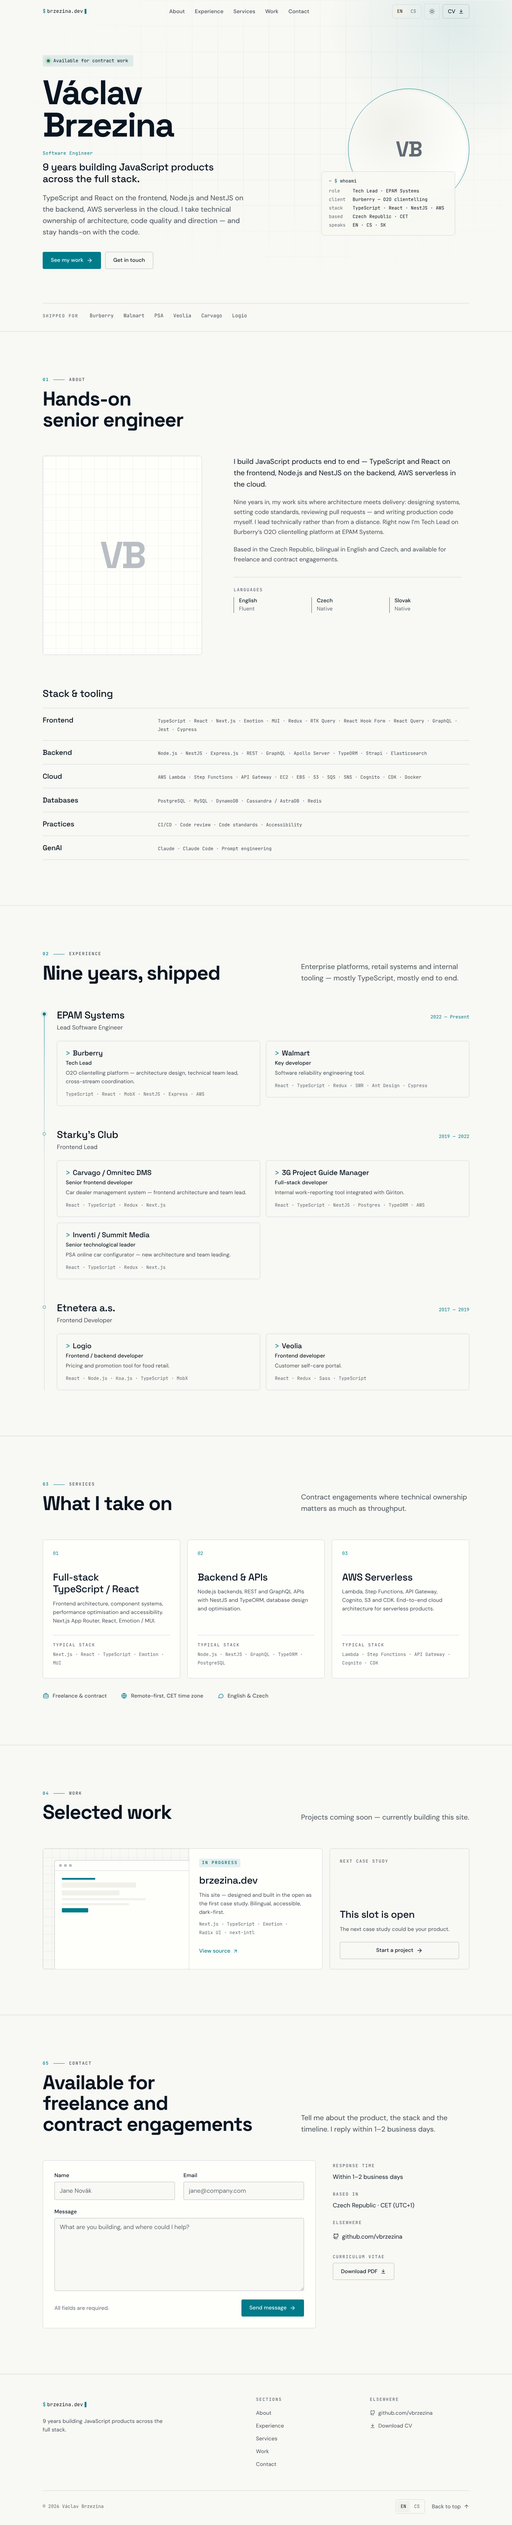
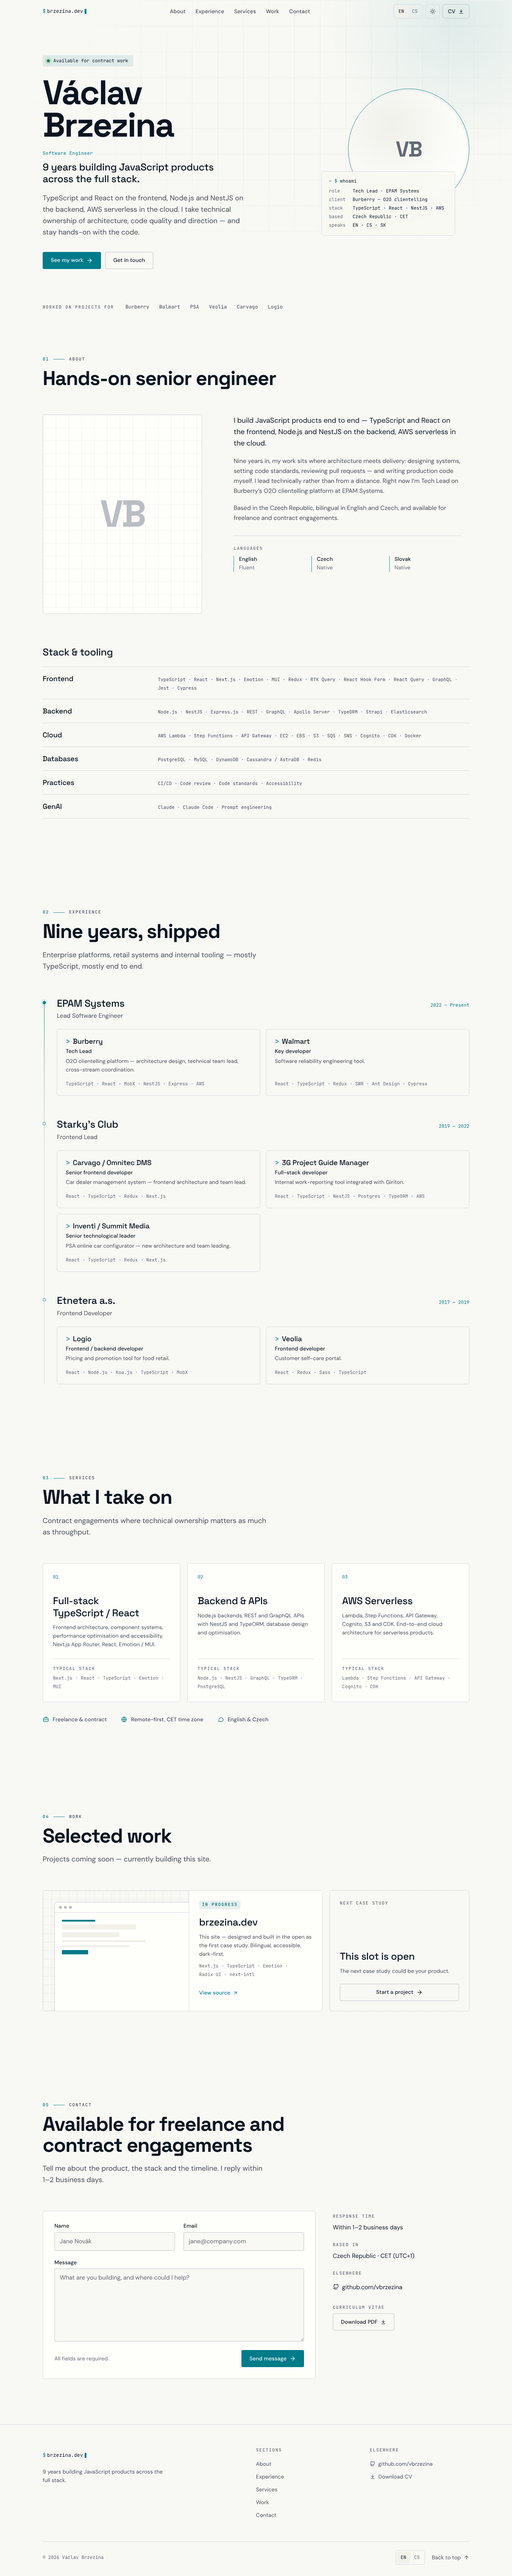
fix(ui): owner review — section rhythm, nav marks, theme persistence
- Theme no longer resets when switching locale: <html> no longer carries
  a server-rendered data-theme; the provider re-applies the stored theme
  on mount (client-side navigation re-rendered the root layout)
- Remove hairlines between sections and above the hero client strip
- "Shipped for" → "Worked on projects for" (EN/CS)
- Section lead sits under the heading in one reading column
- Nav active state: 1px accent rule (matches the eyebrow) instead of a dot
- Nav controls share a 40px height and 6px radius on desktop
- Experience cards equal height per row, stack line pinned to the bottom
- Logo cursor is static (no endless blink)
- Spec, ADR-007, CLAUDE.md and case-study log updated; screenshots refreshed

Claude-Session: https://claude.ai/code/session_013mW6ZWY6digWVBj5YtAxDN

diff --git a/src/app/ThemeContext.tsx b/src/app/ThemeContext.tsx
@@ -1,6 +1,6 @@
 'use client';
 
-import { createContext, useCallback, useContext, useEffect, useRef, useState } from 'react';
+import { createContext, useCallback, useContext, useLayoutEffect, useRef, useState } from 'react';
 import { THEME_STORAGE_KEY } from '@/app/themeScript';
 
 export type ColorScheme = 'dark' | 'light';
@@ -20,8 +20,22 @@ export function ColorSchemeProvider({ children }: { children: React.ReactNode })
   const [scheme, setScheme] = useState<ColorScheme | null>(null);
   const fadeTimer = useRef<number | undefined>(undefined);
 
-  useEffect(() => {
-    setScheme(document.documentElement.dataset.theme === 'light' ? 'light' : 'dark');
+  // React owns <html> and resets its attributes when the root layout re-renders
+  // (e.g. switching locale is a client-side navigation), so re-apply the stored
+  // preference on every mount rather than trusting the current attribute.
+  // Layout effect: runs before paint, so the reset is never visible.
+  useLayoutEffect(() => {
+    const root = document.documentElement;
+    let stored: string | null = null;
+    try {
+      stored = localStorage.getItem(THEME_STORAGE_KEY);
+    } catch {
+      // Storage unavailable — fall back to whatever the page currently shows.
+    }
+    const current: ColorScheme =
+      stored === 'light' || stored === 'dark' ? stored : root.dataset.theme === 'light' ? 'light' : 'dark';
+    root.dataset.theme = current;
+    setScheme(current);
   }, []);
 
   const toggleTheme = useCallback(() => {

diff --git a/src/components/sections/Experience.tsx b/src/components/sections/Experience.tsx
@@ -101,10 +101,12 @@ const Projects = styled.ul`
   }
 `
 
+/* Fills its grid cell, so cards in the same row share a height; the stack line pins to the bottom. */
 const Project = styled.div`
   display: flex;
   flex-direction: column;
   gap: 0.375rem;
+  height: 100%;
   padding: 1.25rem 1.5rem 1.375rem;
   border: 1px solid ${({ theme }) => theme.colors.border};
   border-radius: ${({ theme }) => theme.radius.md};
@@ -135,7 +137,11 @@ const ProjectRole = styled.p`
 const ProjectDescription = styled.p`
   ${type.bodyS}
   color: ${({ theme }) => theme.colors.fgSecondary};
-  margin-bottom: 0.5rem;
+`
+
+const ProjectStack = styled.div`
+  margin-top: auto;
+  padding-top: 0.75rem;
 `
 
 // ─── Component ────────────────────────────────────────────────────────────────
@@ -182,7 +188,9 @@ export function Experience() {
                       </Client>
                       <ProjectRole>{t(`projects.${project.id}.role`)}</ProjectRole>
                       <ProjectDescription>{t(`projects.${project.id}.description`)}</ProjectDescription>
-                      <StackList items={project.stack} label={t('stackLabel')} />
+                      <ProjectStack>
+                        <StackList items={project.stack} label={t('stackLabel')} />
+                      </ProjectStack>
                     </Project>
                   </Reveal>
                 ))}

diff --git a/src/components/ui/SectionHeader.tsx b/src/components/ui/SectionHeader.tsx
@@ -9,19 +9,11 @@ interface SectionHeaderProps {
   lead?: string
 }
 
-const Root = styled.header<{ $split: boolean }>`
-  display: grid;
+/* One reading column: eyebrow → heading → lead, all left-aligned. */
+const Root = styled.header`
+  display: flex;
+  flex-direction: column;
   gap: ${({ theme }) => theme.space[5]};
-
-  ${({ theme }) => theme.mq.lg} {
-    ${({ $split }) =>
-      $split &&
-      `
-        grid-template-columns: 7fr 5fr;
-        column-gap: 4rem;
-        align-items: end;
-      `}
-  }
 `
 
 const Eyebrow = styled.p`
@@ -47,18 +39,18 @@ const Rule = styled.span`
 const Title = styled.h2`
   ${type.displayL}
   color: ${({ theme }) => theme.colors.fg};
-  max-width: 18ch;
+  max-width: 22ch;
 `
 
 const Lead = styled.p`
   ${type.bodyL}
   color: ${({ theme }) => theme.colors.fgSecondary};
-  max-width: 34rem;
+  max-width: 40rem;
 `
 
 export function SectionHeader({ index, label, title, titleId, lead }: SectionHeaderProps) {
   return (
-    <Root $split={Boolean(lead)}>
+    <Root>
       <div>
         <Eyebrow>
           <Index>{index}</Index>

diff --git a/src/components/nav/SiteNav.tsx b/src/components/nav/SiteNav.tsx
@@ -89,18 +89,16 @@ const NavLink = styled(NavigationMenu.Link)`
   color: ${({ theme }) => theme.colors.fgSecondary};
   transition: color ${({ theme }) => theme.motion.fast} ease;
 
-  /* Active indicator: a small accent dot, scaled in from the link's centre. */
+  /* Active indicator: a 1px accent rule under the label — the same mark as the eyebrow's rule. */
   &::after {
     content: '';
     position: absolute;
-    left: 50%;
-    bottom: 0.3rem;
-    width: 4px;
-    height: 4px;
-    margin-left: -2px;
-    border-radius: 50%;
+    left: 0.75rem;
+    right: 0.75rem;
+    bottom: 0.375rem;
+    height: 1px;
     background: ${({ theme }) => theme.colors.accent};
-    transform: scale(0);
+    transform: scaleX(0);
     transition: transform 200ms ${({ theme }) => theme.motion.ease};
   }
 
@@ -110,7 +108,13 @@ const NavLink = styled(NavigationMenu.Link)`
   }
 
   &[data-active]::after {
-    transform: scale(1);
+    transform: scaleX(1);
+  }
+
+  ${({ theme }) => theme.mq.reducedMotion} {
+    &::after {
+      transition: none;
+    }
   }
 `;
 

diff --git a/src/components/ui/Logo.tsx b/src/components/ui/Logo.tsx
@@ -1,11 +1,5 @@
 import styled from '@emotion/styled'
-import { keyframes } from '@emotion/react'
 import { type } from '@/styles/typography'
-
-const blink = keyframes`
-  0%, 49% { opacity: 1; }
-  50%, 100% { opacity: 0; }
-`
 
 const Root = styled.a`
   ${type.monoBody}
@@ -28,11 +22,8 @@ const Cursor = styled.span`
   height: 1.05em;
   margin-left: 0.1ch;
   background: ${({ theme }) => theme.colors.accent};
-  animation: ${blink} 1s steps(1) infinite;
-
-  ${({ theme }) => theme.mq.reducedMotion} {
-    animation: none;
-  }
+  /* Static on purpose: an endless blink pulls the eye in peripheral vision (and WCAG 2.2.2
+     requires a pause control for blinking content that runs longer than 5s). */
 `
 
 interface LogoProps {

diff --git a/src/components/ui/IconButton.tsx b/src/components/ui/IconButton.tsx
@@ -1,6 +1,6 @@
 import styled from '@emotion/styled'
 
-/** Square 44px icon button (theme toggle, menu open/close). */
+/** Square icon button: 44px touch target on mobile, 40px on desktop to match the other nav controls. */
 export const IconButton = styled.button`
   position: relative;
   display: inline-flex;
@@ -26,6 +26,11 @@ export const IconButton = styled.button`
   /* Feedback on pointer-down, not release. */
   &:active {
     transform: scale(0.94);
+  }
+
+  ${({ theme }) => theme.mq.md} {
+    width: 2.5rem;
+    height: 2.5rem;
   }
 
   ${({ theme }) => theme.mq.reducedMotion} {

diff --git a/src/components/ui/Button.tsx b/src/components/ui/Button.tsx
@@ -29,7 +29,8 @@ const StyledButton = styled('button', {
   padding-inline: ${({ $size, $variant }) =>
     $variant === 'ghost' ? '0.75rem' : $size === 'sm' ? '0.875rem' : '1.375rem'};
   width: ${({ $fullWidth }) => ($fullWidth ? '100%' : 'auto')};
-  border-radius: ${({ theme }) => theme.radius.sm};
+  /* sm buttons sit in the nav next to the 6px-radius icon button and locale switch. */
+  border-radius: ${({ theme, $size }) => ($size === 'sm' ? theme.radius.md : theme.radius.sm)};
   border: 1px solid transparent;
   cursor: pointer;
   white-space: nowrap;

diff --git a/src/components/layout/Section.ts b/src/components/layout/Section.ts
@@ -1,9 +1,8 @@
 import styled from '@emotion/styled';
 
-/** Page section: one canvas, separated by a hairline — never by a background change. */
+/** Page section: one continuous canvas — sections are separated by space and the eyebrow, not by rules. */
 export const Section = styled.section`
   position: relative;
   padding-block: ${({ theme }) => theme.layout.sectionPadding};
-  border-top: 1px solid ${({ theme }) => theme.colors.border};
   scroll-margin-top: 5.5rem;
 `;

diff --git a/src/components/sections/Hero.tsx b/src/components/sections/Hero.tsx
@@ -213,8 +213,6 @@ const Proof = styled.div`
   align-items: baseline;
   gap: 0.75rem 2rem;
   margin-top: clamp(4rem, 3rem + 4vw, 6rem);
-  padding-block: 1.5rem 2rem;
-  border-top: 1px solid ${({ theme }) => theme.colors.border};
 `
 
 const ProofLabel = styled.p`

diff --git a/src/app/[locale]/layout.tsx b/src/app/[locale]/layout.tsx
@@ -44,7 +44,6 @@ export default async function LocaleLayout({
   return (
     <html
       lang={locale}
-      data-theme="dark"
       className={`${spaceGrotesk.variable} ${dmSans.variable} ${jetbrainsMono.variable}`}
       suppressHydrationWarning
     >

diff --git a/docs/design/redesign-2026-10.md b/docs/design/redesign-2026-10.md
@@ -92,7 +92,7 @@ Implemented as Emotion `css` mixins in `src/styles/typography.ts`. Body text mea
 ### 3.3 Space, radius, layout
 
 - **Spacing scale:** 4 · 8 · 12 · 16 · 24 · 32 · 48 · 64 · 96 · 128 px (`theme.space`).
-- **Section rhythm:** `padding-block: clamp(5rem, 3rem + 6vw, 8rem)`; sections are separated by a single hairline, never by a background change.
+- **Section rhythm:** `padding-block: clamp(5rem, 3rem + 6vw, 8rem)`; sections are separated by space and the eyebrow alone — no rules between sections, no background changes. The only full-width rule is the footer's top edge.
 - **Container:** 75rem max, gutter `clamp(1.25rem, 4vw, 2.5rem)`.
 - **Grid:** 12 columns, 1.5rem gap desktop. Breakpoints: `sm 640`, `md 900` (nav collapses below this), `lg 1100`.
 - **Radius:** `4px` for controls (buttons, inputs, pills, segments); `6px` for large surfaces (cards, panels, sheet). Corners stay sharp — the 2px step only makes larger surfaces read a little heavier.
@@ -109,9 +109,9 @@ Implemented as Emotion `css` mixins in `src/styles/typography.ts`. Body text mea
 | Nav material | border + background fade in after 8px of scroll, 200ms | Same |
 | Mobile sheet | enters **from the trigger edge** (top): translateY(−0.75rem)+opacity, 320ms; exits along the same path, 200ms; scrim fades | Opacity only |
 | Theme switch | `background-color`/`color` cross-fade 300ms on the root — no abrupt brightness jump | Instant |
-| Logo cursor | 1s step blink | Static |
+| Logo cursor | Static — no blink (an endless blink distracts in peripheral vision; WCAG 2.2.2 would require a pause control) | — |
 
-Only `transform` and `opacity` are animated for movement. No looping animation besides the cursor (which is stepped, not oscillating). CSS transitions only — ADR-007 stands; nothing on the page is gesture-driven enough to need springs.
+Only `transform` and `opacity` are animated for movement. No looping animation anywhere. CSS transitions only — ADR-007 stands; nothing on the page is gesture-driven enough to need springs.
 
 `prefers-reduced-transparency: reduce` → nav and sheet become solid `--color-canvas`, no blur.
 
@@ -121,15 +121,15 @@ Only `transform` and `opacity` are animated for movement. No looping animation b
 
 | Component | Spec |
 |-----------|------|
-| **Button** | Variants `primary` (accent fill), `secondary` (transparent, `border-strong`, hover → `raised`), `ghost` (no border, `fg-secondary`, hover → `accent-subtle`). Sizes `md` (48px) and `sm` (40px; nav CV). Optional leading/trailing icon. Focus: 2px accent outline, 2px offset. `asChild` for links. One primary button per view. |
-| **SectionHeader** | `NN —— LABEL` eyebrow (number + rule in accent, label in `fg-secondary`) → h2 `displayL`. Optional lead sits in the right 5 columns, bottom-aligned with the heading, from `lg` up (editorial split); stacked below that. |
+| **Button** | Variants `primary` (accent fill), `secondary` (transparent, `border-strong`, hover → `raised`), `ghost` (no border, `fg-secondary`, hover → `accent-subtle`). Sizes `md` (48px, 4px radius) and `sm` (40px, 6px radius — nav CV, matching the icon button and locale switch). Optional leading/trailing icon. Focus: 2px accent outline, 2px offset. `asChild` for links. One primary button per view. |
+| **SectionHeader** | `NN —— LABEL` eyebrow (number + rule in accent, label in `fg-secondary`) → h2 `displayL`. Optional lead directly below the heading (max 40rem). One left-aligned reading column at every width — eyebrow → heading → lead — so the eye never jumps across the page. |
 | **StatusPill** | `accent-subtle` fill, success dot with soft glow, `monoS` label. Static — no pulse. |
 | **StackList** | Mono, dot-separated (`TypeScript · React · NestJS`), wraps naturally, rendered as `<ul role="list">` with CSS separators — the explicit role keeps Safari/VoiceOver announcing it after the `list-style: none` reset (same on every styled list). Replaces boxed tags everywhere. |
-| **Logo** | `$` accent + `brzezina.dev` + 0.5em block cursor. |
+| **Logo** | `$` accent + `brzezina.dev` + 0.5em static block cursor. |
 | **LocaleSwitch** | Segmented control (`EN | CS`) — selected segment on `raised`. Real `<a>` links to the locale route with `aria-current`, `hreflang`. |
 | **ThemeToggle** | 40px icon button, SVG sun/moon, label states the action ("Switch to light theme"). Persists to `localStorage`; inline head script applies the theme before first paint. |
 | **Field** | Label above (never floating), 48px control on `canvas` with `border-strong`; focus → accent border + 3px `accent-subtle` halo; error → error border + message (`aria-invalid`, `aria-describedby`). Validated on blur, then live. |
-| **IconButton** | 44px square, hairline border, `md` radius; hover → `raised`; press → `scale(0.94)` (off under reduced motion). Shared by the theme toggle and the menu open/close buttons. |
+| **IconButton** | 44px square on mobile (touch target), 40px from `md` up so every nav control shares one height; hairline border, `md` radius; hover → `raised`; press → `scale(0.94)` (off under reduced motion). Shared by the theme toggle and the menu open/close buttons. |
 | **Icons** | Inline SVG, 20px, 1.75 stroke, `currentColor` (Lucide geometry): sun, moon, menu, close, arrow-right, arrow-up-right, download, github, check. |
 
 ---
@@ -138,7 +138,7 @@ Only `transform` and `opacity` are animated for movement. No looping animation b
 
 ### Nav (sticky, 64px)
 - **Left:** Logo.
-- **Centre (≥900px):** About · Experience · Services · Work · Contact. Active section → `fg` + 4px accent dot underneath (`aria-current="location"`).
+- **Centre (≥900px):** About · Experience · Services · Work · Contact. Active section → `fg` + a 1px accent rule under the label, scaling in from the centre — the same mark as the eyebrow's rule (`aria-current`).
 - **Right:** LocaleSwitch · ThemeToggle · `CV` secondary `sm` button with download icon.
 - **Material:** transparent at the top of the page; after 8px of scroll it becomes `--color-material` + `backdrop-filter: blur(20px) saturate(180%)` with a hairline bottom edge. The edge exists only when content is actually under the bar.
 - **< 900px:** Logo · ThemeToggle · 44px menu button. Menu = Radix Dialog sheet anchored to the top edge: large `titleL` links with mono counters (`01 About`), LocaleSwitch, CV + "Get in touch" buttons. Focus trap, Escape, scrim click. Dismissing returns focus to the trigger; choosing a section moves focus to that section instead.
@@ -164,7 +164,7 @@ Only `transform` and `opacity` are animated for movement. No looping animation b
   speaks   EN · CS · SK
   ```
 - **Backdrop:** the 72px technical grid, masked with a radial fade so it dissolves before the edges, plus one soft accent glow top-right (decorative, `aria-hidden`).
-- **Proof strip** (bottom of hero, hairline above): `SHIPPED FOR` eyebrow + `Burberry · Walmart · PSA · Veolia · Carvago · Logio` in `monoBody` fg-tertiary. These are real past clients; headhunters scan for exactly this.
+- **Proof strip** (bottom of hero, no rule): `WORKED ON PROJECTS FOR` eyebrow + `Burberry · Walmart · PSA · Veolia · Carvago · Logio` in `monoBody`. Worded as *projects for* because these were clients of EPAM, Starky's Club and Etnetera, not direct engagements — the big names stay, the claim stays accurate.
 
 ### 01 About — "Hands-on senior engineer"
 - 5/7 split. Left: 4:5 portrait placeholder (surface, grid texture, `VB` monogram, `role="img"` with descriptive label). Right: first paragraph in `bodyL` fg (the lede), then two `bodyM` fg-secondary paragraphs, then a languages `<dl>`: **English** Fluent · **Czech** Native · **Slovak** Native.
@@ -173,7 +173,7 @@ Only `transform` and `opacity` are animated for movement. No looping animation b
 ### 02 Experience — "Nine years, shipped"
 - A vertical rail on the left with an accent dot per employer. The dot of the current role has a halo.
 - **Company header:** name in `titleL`, title in `bodyM` fg-secondary; period in `monoS` accent, right-aligned on desktop and above the name on mobile.
-- **Projects:** two-column grid from `lg` up (cuts the section height roughly in half). Each project: `> Client` (`titleM`, accent `>`), role (`bodyS` fg), description (`bodyS` fg-secondary), StackList.
+- **Projects:** two-column grid from `lg` up (cuts the section height roughly in half). Cards in the same row share a height, with the stack line pinned to the bottom, so rows read as clean bands; across rows heights follow content (forcing one global height would pad short cards with empty space). Each project: `> Client` (`titleM`, accent `>`), role (`bodyS` fg), description (`bodyS` fg-secondary), StackList.
 - Content is the real CV: EPAM (Burberry, Walmart), Starky's Club (Carvago/Omnitec DMS, 3G Project Guide Manager, Inventi/Summit Media — PSA), Etnetera (Logio, Veolia).
 
 ### 03 Services — "What I take on"

diff --git a/.scratch/brzezina-dev-portfolio/case-study-log.md b/.scratch/brzezina-dev-portfolio/case-study-log.md
@@ -126,3 +126,19 @@ Running record of decisions, alternatives considered, and wrong turns for the br
 **Wrong turn / lesson:** The redesign also regressed the CV links from `/cv.pdf` (with `download`) to `#` because the spec was written from the nav button, the one place that was already `#`. Review the diff against the base branch, not against your memory of it. Other review fixes: mobile-menu focus now lands on the chosen section, explicit `role="list"` on styled lists (Safari/VoiceOver), active-section detection rewritten to use geometry instead of intersection ratios.
 
 ---
+
+### 2026-10-12 — Owner design review: fewer rules, one reading column, honest client wording
+
+**Decision:** Removed hairlines between sections (spacing + eyebrow do the job); section leads moved under the heading instead of a right-hand column; nav active state became a 1px accent rule (matching the eyebrow rule) instead of a dot; logo cursor made static; nav controls unified at 40px; experience cards equal height per row; "Shipped for" → "Worked on projects for".
+**Why:** The rules doubled up in the hero and read as clutter. The split header made the eye jump across the page. The dot was a borrowed idiom; the line is this design's own vocabulary. An endless blink distracts (and WCAG 2.2.2 would need a pause control). Burberry, Walmart, PSA etc. were clients of EPAM / Starky's Club / Etnetera — "shipped for" overstated a direct relationship.
+**Wrong turn / lesson:** The owner's review caught things the automated review and axe didn't: rhythm, consistency of marks, and the accuracy of a three-word label.
+
+---
+
+### 2026-10-12 — Theme reset on locale switch: React owns `<html>`
+
+**Decision:** Removed `data-theme` from the server-rendered `<html>`; dark is the CSS default on `:root`. The colour-scheme provider re-applies the stored theme in a layout effect on every mount.
+**Why:** Switching locale is a client-side navigation that re-renders the root layout; React re-applied `data-theme="dark"` from props, overwriting the user's choice (still in `localStorage`, so a reload "fixed" it — which made it look random). Reproduced with Playwright before fixing.
+**Alternatives considered:** A theme cookie read by the server layout — SSR-correct, but makes the route depend on `cookies()`, which conflicts with the still-open static-export option (ticket 10).
+
+---
